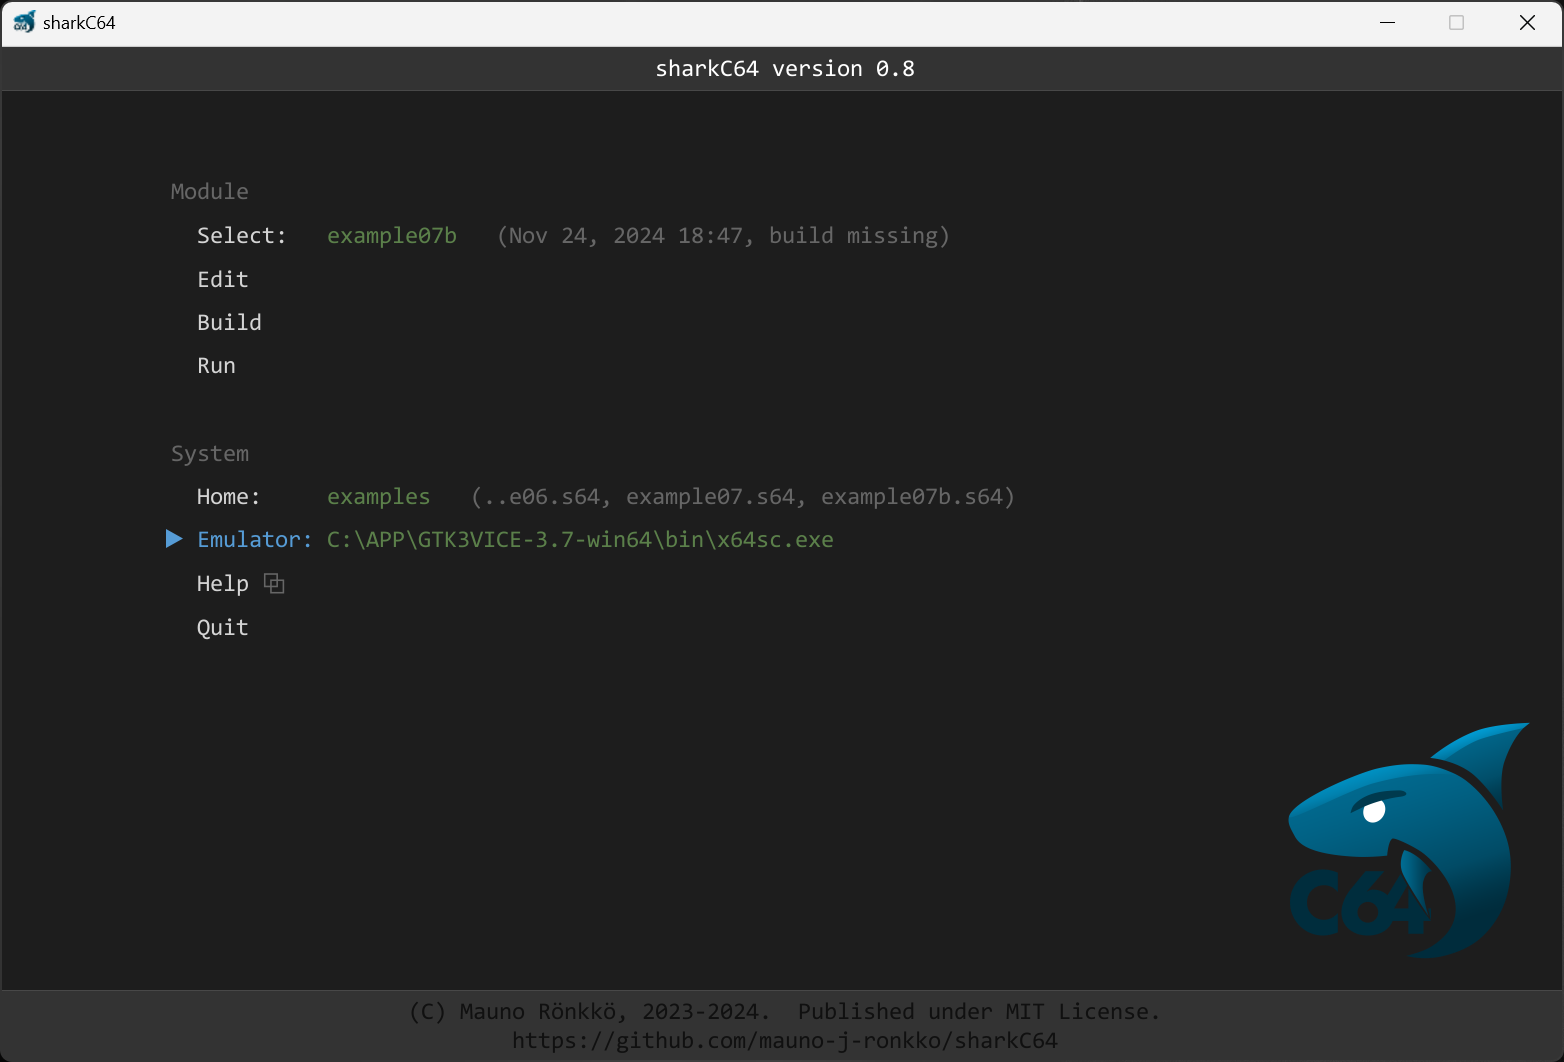
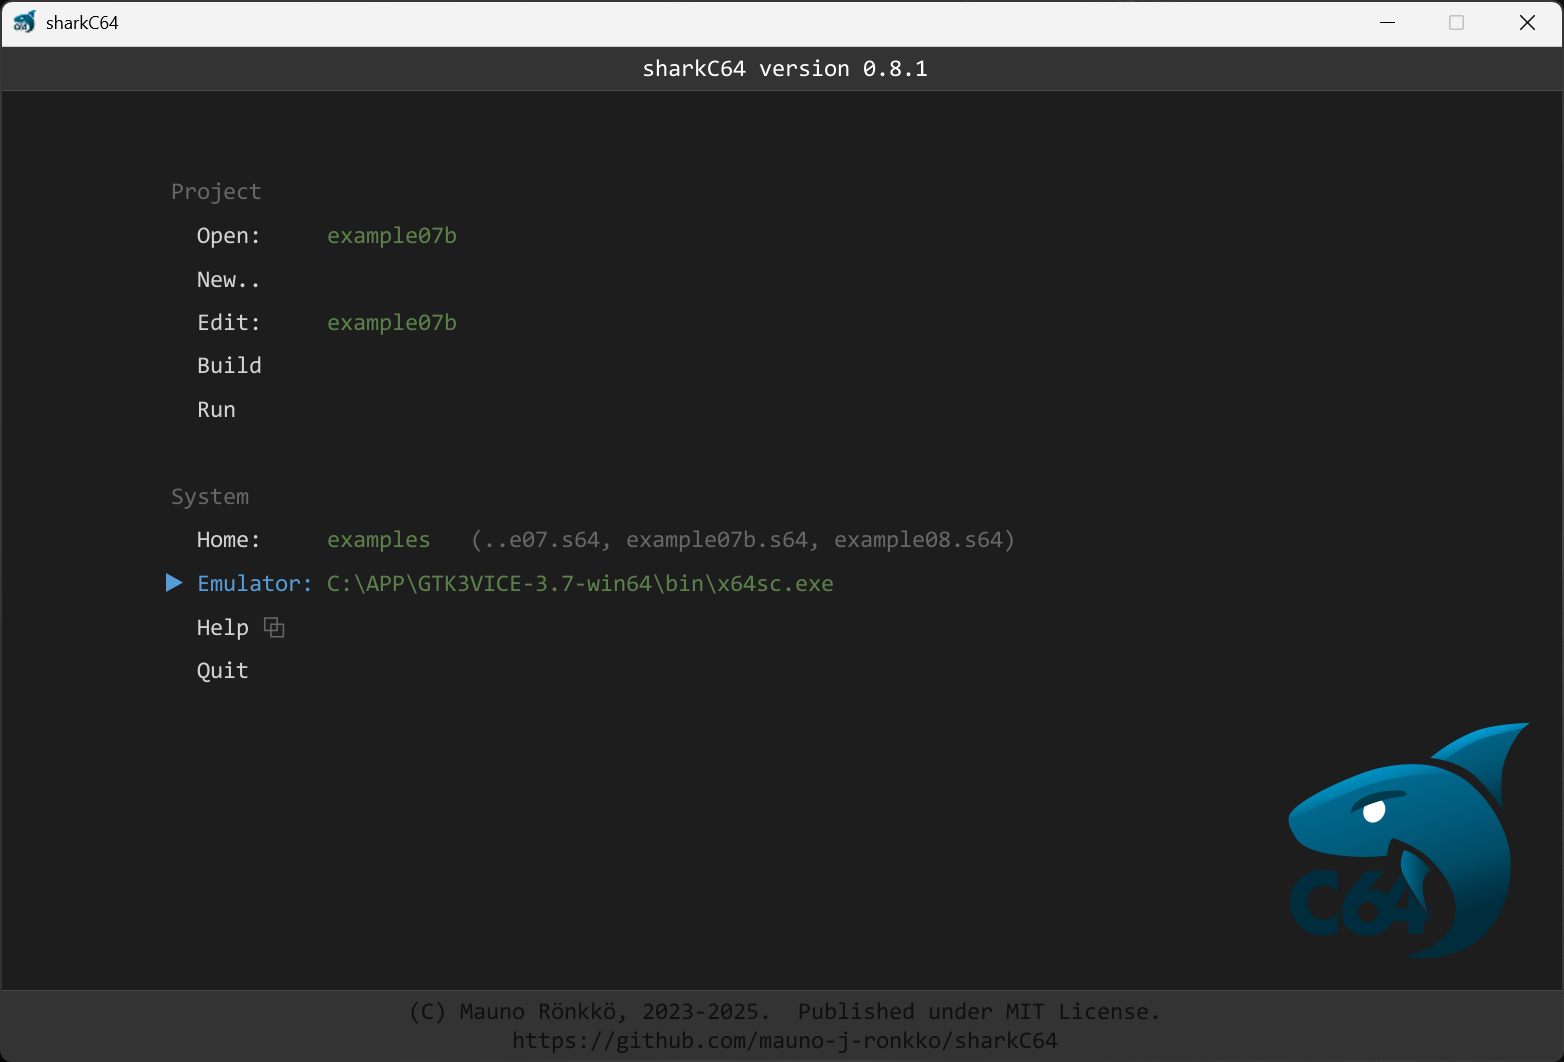
version 0.8.1

diff --git a/docs/ide/editing.md b/docs/ide/editing.md
@@ -1,10 +1,10 @@
-# Editing the active module
+# Editing a module
 
 The home screen of the sharkC64 IDE looks as follows:
 
-![Selecting active module](../images/editing.png)
+![Editing module](../images/editing.png)
 
-To edit an active module, click the Edit action in the Module section.
+To edit a module, click the Edit action in the Project section.
 It will open an edit view.
 
 ![Edit view](../images/edit-view.png)
@@ -21,24 +21,32 @@ The shortcut is shown next to the action.
 Here is a list of the editor menu actions:
 
 | Action                                  | Menu item                   | Keyboard shortcut | MacOS keyboard shortcut |
-|-----------------------------------------|-----------------------------|-------------------|-------------------------|
-| Save module source code                 | Module.. > Save             | ctrl + s          | command + s             |
+|:----------------------------------------|:----------------------------|-------------------|-------------------------|
+| Create new module                       | Module.. > New..            | ctrl + n          | command + n             |
+| Open a module                           | Module.. > Open..           | ctrl + o          | command + o             |
+| Save edited module                      | Module.. > Save             | ctrl + s          | command + s             |
 | Close editor view (back to home screen) | Module.. > Close            | ctrl + w          | command + w             |
+| <br>                                    |                             |                   |                         |
 | Undo the latest change                  | Edit.. > Undo               | ctrl + z          | command + z             |
 | Redo the latest undo                    | Edit.. > Redo               | shift + ctrl + z  | shift + command + z     |
-| Find text                               | Edit.. > Find..             | shift + ctrl + f  | shift + command + f     |
+| Revert all changes                      | Edit.. > Revert all changes | shift + ctrl + y  | shift + command + z     |
+| Find text                               | Edit.. > Find..             | shift + ctrl + f  | shift + command + y     |
 | Find next                               | Edit.. > Find next          | ctrl + f          | command + f             |
 | Find previous                           | Edit.. > Find previous      | ctrl + g          | command + g             |
 | Replace text                            | Edit.. > Replace..          | shift + ctrl + r  | shift + command + r     |
 | Replace this occurrence and find next   | Edit.. > Replace next       | ctrl + r          | command + r             |
+| <br>                                    |                             |                   |                         |
 | Select all                              | Selection.. > Select all    | ctrl + a          | command + a             |
 | Cut selected to clipboard               | Selection.. > Cut           | ctrl + x          | command + x             |
 | Copy selected to clipboard              | Selection.. > Copy          | ctrl + c          | command + c             |
 | Paste from clipboard                    | Selection.. > Paste         | ctrl + v          | command + v             |
 | Delete selection                        | Selection.. > Delete        | Delete            | Delete                  |
-| Compile module source code              | Compile.. > Compile         | F9                | F9                      |
+| <br>                                    |                             |                   |                         |
+| Compile module in editor                | Compile.. > Compile         | F9                | F9                      |
 | Show next compilation error             | Compile.. > Show next error | ctrl + F9         | command + F9            |
-| Build and run module                    | Compile.. > Build and run   | F10               | F10                     |
+| Build the project                       | Compile.. > Build           | F10               | F10                     |
+| Build and run the project               | Compile.. > Build and run   | F11               | F11                     |
+| <br>                                    |                             |                   |                         |
 | Show editor Help (this page)            | Help                        | F1                | F1                      |
 | Quit sharkC64                           | Quit                        | ctrl + q          | command + q             |
 

diff --git a/docs/ide/setting-emulator.md b/docs/ide/setting-emulator.md
@@ -1,20 +1,20 @@
 # Setting the emulator command for running a program
 
 The home screen of the sharkC64 IDE looks as follows:
-![Selecting active module](../images/emulator.png)
+![Setting emulator](../images/emulator.png)
 
-Because the emulator command for running a program depends on your personal system settings
+Because the emulator command for running the project depends on your personal system settings
 and installations, the sharkC64 IDE leaves it undefined during initialization.
-In the picture above, the emulator command for running a program uses the Vice emulator.
+In the picture above, the emulator command for running the project uses the Vice emulator.
 In that specific case, the Gtk 3 version of the Vice emulator has been 
 installed on a Windows computer to the folder `C:\APP`.
 
-To set the emulator command, click the Emulator action in the System section, 
-and type the emulator command. 
+To set the emulator command, click the Emulator action in the System section.
+It will open a dialog asking for the emulator file.
+![Creating module](../images/set-emulator.png)
 
 The emulator command must refer to some executable file in the system.
-If it does not, an "invalid file" status is shown next to it,
-and the Run action in the Module section is disabled.
+If it does not, an error dialog is shown.
 
 <br /><br />
 :leftwards_arrow_with_hook: [Back to index](../index.md)

diff --git a/docs/index.md b/docs/index.md
@@ -34,13 +34,14 @@ The sharkC64 IDE is published under MIT license.
    2. [Home screen](ide/homescreen.md)
    3. [Setting the home folder](ide/setting-home.md)
    4. [Setting the emulator command for running a program](ide/setting-emulator)
-   5. [Selecting an active module](ide/selecting.md)
-   6. [Editing the active module](ide/editing.md)
-   7. [Building the active module](ide/building.md)
-   8. [Running the active module](ide/running.md)
-   9. [Compiling a module from the command line](ide/cli-compiling.md)
-   10. [Running a built program from the command line](ide/cli-running.md)
-   11. [List of examples](ide/examples.md)
+   5. [Opening an existing project](ide/opening)
+   6. [Creating a new project](ide/creating-new.md)
+   7. [Editing a module](ide/editing.md)
+   8. [Building the project](ide/building.md)
+   9. [Running the project](ide/running.md)
+   10. [Compiling a module from the command line](ide/cli-compiling.md)
+   11. [Running a built program from the command line](ide/cli-running.md)
+   12. [List of examples](ide/examples.md)
 4. Roadmap
    1. [Release history](roadmap/history.md)
    2. [Future plans](roadmap/future.md)

diff --git a/docs/ide/setting-home.md b/docs/ide/setting-home.md
@@ -1,17 +1,17 @@
 # Setting the home folder
 
 The home screen of the sharkC64 IDE looks as follows:
-![Selecting active module](../images/home.png)
+![Setting home](../images/home.png)
 
 The sharkC64 IDE initializes the home folder to be the example folder that it creates
 when it is started for the first time. To set the home folder, 
-click the Home action in the System section, and type the home folder.
-To confirm that the folder exists, some of the module file names are listed 
-next to the home folder.
+click the Home action in the System section.
+It will open a dialog asking for the path to the home folder.
+![Creating module](../images/set-home.png)
 
+If you type the home folder incorrectly, an error dialog is shown.
 Note that the sharkC64 IDE does not create a new home folder.
-If the given home folder does not exist, and "invalid folder" status is shown
-next to the home folder. Then, all the actions in the module section are also disabled.
+If the given home folder does not exist, an error dialog is shown.
 
 <br /><br />
 :leftwards_arrow_with_hook: [Back to index](../index.md)

diff --git a/docs/ide/homescreen.md b/docs/ide/homescreen.md
@@ -3,15 +3,16 @@
 The home screen of the sharkC64 IDE looks as follows:
 ![Home screen](../images/home-screen.png)
 
-It has two sections with actions. The module section has actions for:
-- [selecting an active module](selecting.md)
-- [editing the module](editing.md)
-- [building a runnable prg file for the module](building.md)
-- [running a built module with the runner command](running.md)
+It has two sections with actions. The Project section has actions for:
+- [Opening an existing project](ide/opening)
+- [Creating a new project](ide/creating-new.md)
+- [Editing a module](ide/editing.md)
+- [Building the project](ide/building.md)
+- [Running the project](ide/running.md)
 
 The System section has actions for:
-- [setting the home folder for the project](setting-home.md)
-- [setting the runner command for running a built module](running.md)
+- [Setting the home folder](ide/setting-home.md)
+- [Setting the emulator command for running a program](ide/setting-emulator)
 - showing help with the default browser (opens this page)
 - quiting the sharkC64 IDE
 

diff --git a/docs/ide/building.md b/docs/ide/building.md
@@ -1,17 +1,16 @@
-# Building the active module
+# Building the project
 
 The home screen of the sharkC64 IDE looks as follows:
 ![Selecting active module](../images/building.png)
 
-To build the active module, click the Build action in the Module section.
-It will first compile the module and then write the executable prg file.
+To build the project, click the Build action in the Project section.
+It will first compile the project and then write the executable prg file.
 
+A dialog is shown to confirm a successful build.
 If errors are found during the compilation, the editor view will be opened
 and the first error location will be displayed. For more about the
 editor view, see the documentation about [editing](editing.md).
 
-If the build is successful, the comment next to the selected module
-will state "build ok" instead of "build missing" as in the picture above.
 
 <br /><br />
 :leftwards_arrow_with_hook: [Back to index](../index.md)

diff --git a/docs/ide/running.md b/docs/ide/running.md
@@ -1,15 +1,15 @@
-# Running the active module
+# Running the project
 
 The home screen of the sharkC64 IDE looks as follows:
-![Selecting active module](../images/running.png)
+![Running the project](../images/running.png)
 
-To run the active module, click the Run action in the Module section.
-If the module has not been built yet, the Run action will first build it
+To run the project, click the Run action in the project section.
+If the project has not been built yet, the Run action will first build it
 and then run it. 
 
 The Run action uses the Emulator command for running the built prg file.
 If the Emulator command is not supplied, the Run action is not active. 
-To read more about the Runner command, see the text about the [emulator](setting-emulator)
+To read more about the Emulator command, see the text about the [emulator](setting-emulator)
 command.
 
 If errors are found during the building phase, the editor view will be opened

diff --git a/docs/roadmap/history.md b/docs/roadmap/history.md
@@ -1,5 +1,25 @@
 # Release history
 
+### Version 0.8.1 published January 14, 2025
+- Home screen
+  - Updated home screen to address projects instead of modules
+  - Added creation of a new project
+  - Added dialog for opening an existing project
+  - Added dialog for asking home folder and emulator file
+- Editor
+  - Added actions for creating or opening a module
+  - Added action for building the project without running it
+  - Added action for reverting all unsaved changes
+  - Added checks for not losing changes
+  - Added automatic compilation of a module when opened
+  - Updated header to show the project name
+  - Improved error messaging
+- Language
+  - Improved validation of constant declarations
+- Miscellaneous
+  - Improved submenu stability
+  - Improved mouse click responsiveness
+
 ### Version 0.8 published December 7, 2024
 - Added use statement
 - Added referencing of variables and constants in another module

diff --git a/docs/ide/creating-new.md b/docs/ide/creating-new.md
@@ -1,0 +1,19 @@
+# Creating a new project
+
+The home screen of the sharkC64 IDE looks as follows:
+![Creating a new project](../images/creating-new.png)
+
+To create a new project, click the New.. action in the Project section.
+It will open a dialog asking for the name of the new project.
+Type the name of the new project. 
+It is then created and the editor view is opened automatically for it. 
+![Creating module](../images/new-project.png)
+
+Note that you cannot have an existing module with the name of the new project.
+If you type the name of an existing module, it will not be overwritten or
+opened. A dialog is shown to indicate this and the IDE asks you again
+for the name of the new project.
+
+<br /><br />
+:leftwards_arrow_with_hook: [Back to index](../index.md)
+

diff --git a/docs/language/expressions/constants.md b/docs/language/expressions/constants.md
@@ -16,7 +16,7 @@ Constants are treated as literal values during the compile time. No fixed memory
 
 The fixed value must conform to the data type of the constant. 
 The fixed value can be an expression, as long as it simplifies to a fixed value with a correct data type. 
-The expression may also refer to previously declared identifiers that have fixed values.
+The expression may also refer to previously declared constants.
 
 <br /><br />
 :leftwards_arrow_with_hook: [Back to index](../../index.md)

diff --git a/docs/ide/opening.md b/docs/ide/opening.md
@@ -1,0 +1,13 @@
+# Opening an existing project
+
+The home screen of the sharkC64 IDE looks as follows:
+![Selecting an existing project](../images/opening.png)
+
+To open an existing project, click the Open action in the Project section.
+It will open a dialog showing all modules in the Home folder.
+Pick the main module of the project that you wish to open.
+![Selecting module](../images/open-project.png)
+
+<br /><br />
+:leftwards_arrow_with_hook: [Back to index](../index.md)
+

diff --git a/docs/roadmap/future.md b/docs/roadmap/future.md
@@ -1,11 +1,11 @@
 # Future plans
 
 ### Next release
-- Improving IDE further
+- Function bodies
 
 ### Backlog
-- Functions
-- Indirect indexing
+- Access for data chunks
+- Improvements to functions
 - More data types: records, arrays, etc
 - Computational operators including multiplication and division
 - Support for floating point values
